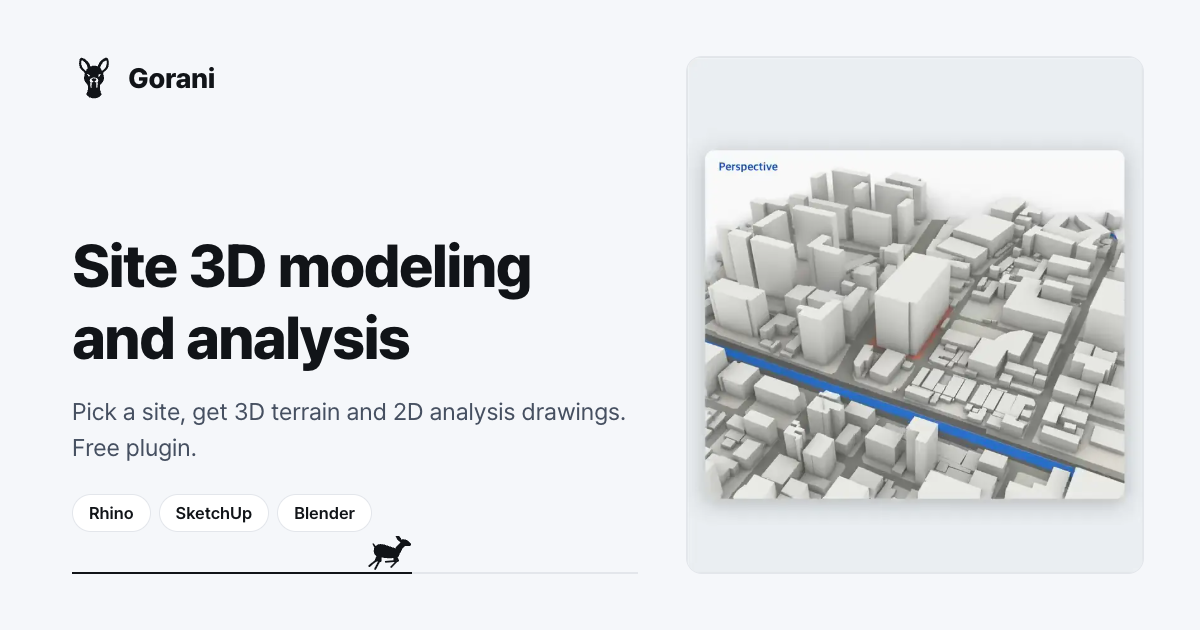
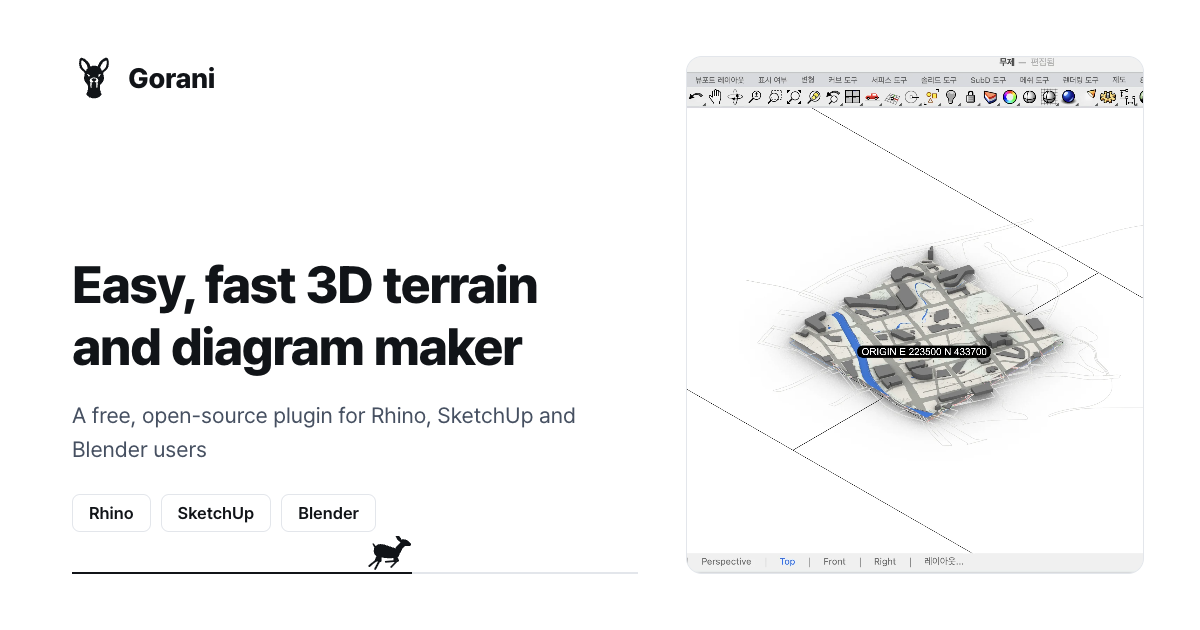
남은 정리: 3D·2D 이미지 호버 통일, 제목·공유 미리보기 새 문구, 칩 클릭 처리 1번만
- .shot 호버: 뜨고 기울던 것을 사용법 카드·지원 칩과 같게(제자리, 테두리·그림자, 0.18초/0.6초)
- <title>, og:title, og:description을 새 Hero 문구로(다섯 언어)
- 공유 이미지 og.html을 다섯 언어(?en ?ja ?zh ?es)로, 3D 모델 화면으로 다시 찍음. ja/zh/es는 각자 og-ja/zh/es.png
- site.js: 지원 칩 클릭 처리가 설치 탭 수만큼(3번) 등록되던 것을 한 번으로

diff --git a/og.html b/og.html
@@ -1,45 +1,52 @@
 <!doctype html>
-<!-- 공유 미리보기 이미지(1200×630) — 문구·영상 첫 장면을 바꾸면 다시 찍는다. 영어판은 ?en
+<!-- 공유 미리보기 이미지(1200×630) — 문구나 3D 장면을 바꾸면 다시 찍는다. 언어는 ?en ?ja ?zh ?es (없으면 한국어)
      C="/Applications/Google Chrome.app/Contents/MacOS/Google Chrome"
      "$C" --headless=new --force-prefers-reduced-motion --hide-scrollbars --window-size=1200,630 --screenshot=assets/og.png "file://$PWD/og.html"
-     "$C" --headless=new --force-prefers-reduced-motion --hide-scrollbars --window-size=1200,630 --screenshot=assets/og-en.png "file://$PWD/og.html?en" -->
+     for l in en ja zh es; do "$C" --headless=new --force-prefers-reduced-motion --hide-scrollbars --window-size=1200,630 --screenshot=assets/og-$l.png "file://$PWD/og.html?$l"; done -->
 <html lang="ko"><head><meta charset="utf-8"><meta name="robots" content="noindex">
 <link rel="stylesheet" href="https://cdn.jsdelivr.net/gh/orioncactus/pretendard@v1.3.9/dist/web/variable/pretendardvariable-dynamic-subset.min.css">
 <link rel="stylesheet" href="assets/style.css">
 <style>
   /* 맥이 다크 모드여도 밝은 색으로 찍는다 — style.css :root 밝은 값 */
-  :root { --paper: #F5F7FA; --surface: #FFFFFF; --press: #EDF0F4; --ink: #111418; --ink-2: #465061; --ink-3: #7D8798; --hair: #E3E6EB; color-scheme: light; }
+  :root { --paper: #FFFFFF; --surface: #FFFFFF; --press: #EDF0F4; --ink: #111418; --ink-2: #465061; --ink-3: #7D8798; --hair: #E3E6EB; color-scheme: light; }
   html, body { width: 1200px; height: 630px; overflow: hidden; margin: 0; background: var(--paper); }
   .og { display: flex; gap: 48px; height: 100%; padding: 56px 56px 56px 72px; box-sizing: border-box; }
   .text { flex: 1; display: flex; flex-direction: column; min-width: 0; }
   .brand { font-size: 28px; gap: 12px; }
   .brand .mark { --s: 44px; }
-  h1 { margin: auto 0 0; font-size: 60px; line-height: 72px; font-weight: 800; letter-spacing: -.03em; }
-  .lead { margin-top: 20px; font-size: 24px; line-height: 36px; }
+  h1 { margin: auto 0 0; font-size: 52px; line-height: 62px; font-weight: 800; letter-spacing: -.03em; }
+  .lead { margin-top: 20px; font-size: 22px; line-height: 34px; }
   .hosts { margin-top: 28px; }
   .hosts li { font-size: 17px; line-height: 24px; padding: 6px 16px; }
   .line { position: relative; margin-top: auto; height: 2px; background: var(--hair); }
   .line i { position: absolute; inset: 0 40% 0 0; background: var(--ink); }
   .line .run { --w: 48px; --h: 36px; position: absolute; bottom: 2px; left: calc(60% - 48px); color: var(--ink); }
   .shot { flex: none; width: 458px; height: 518px; border-radius: 16px; overflow: hidden; background: #EBF0F3; border: 1px solid var(--hair); }
-  .shot img { width: 100%; height: 100%; object-fit: cover; }
+  .shot img { width: 100%; height: 100%; object-fit: cover; object-position: 30% 50%; }
 </style></head>
 <body>
 <div class="og">
   <div class="text">
     <div class="brand"><span class="mark"></span>Gorani</div>
-    <h1 id="title">사이트 3D 모델링<br>및 분석</h1>
-    <p class="lead" id="lead">대상지를 고르면 3D 지형과 2D 분석 자료를 생성하는 무료 플러그인</p>
+    <h1 id="title">쉽고 빠른<br>3D 지형 생성과<br>다이어그램 제작 툴</h1>
+    <p class="lead" id="lead">라이노, 스케치업, 블렌더 유저를 위한 무료 오픈소스 플러그인</p>
     <ul class="hosts"><li><b>Rhino</b></li><li><b>SketchUp</b></li><li><b>Blender</b></li></ul>
     <div class="line" style="margin-top:40px"><i></i><span class="run"></span></div>
   </div>
-  <div class="shot"><img src="assets/demo-poster.webp" alt=""></div>
+  <div class="shot"><img src="assets/detail-3d.webp" alt=""></div>
 </div>
 <script>
-  if (location.search === "?en") {
-    document.documentElement.lang = "en";
-    document.getElementById("title").innerHTML = "Site 3D modeling<br>and analysis";
-    document.getElementById("lead").textContent = "Pick a site, get 3D terrain and 2D analysis drawings. Free plugin.";
+  var T = {
+    en: ["Easy, fast 3D terrain<br>and diagram maker", "A free, open-source plugin for Rhino, SketchUp and Blender users"],
+    ja: ["3D地形と<br>ダイアグラムを、<br>すばやく作成", "Rhino・SketchUp・Blenderユーザーのための無料オープンソースプラグイン"],
+    zh: ["简单快速的<br>3D地形生成与<br>图表制作工具", "面向 Rhino、SketchUp 和 Blender 用户的免费开源插件"],
+    es: ["Terreno 3D<br>y diagramas,<br>fácil y rápido", "Plugin gratuito y de código abierto para usuarios de Rhino, SketchUp y Blender"]
+  };
+  var l = location.search.slice(1);
+  if (T[l]) {
+    document.documentElement.lang = l;
+    document.getElementById("title").innerHTML = T[l][0];
+    document.getElementById("lead").textContent = T[l][1];
   }
 </script>
 </body></html>

diff --git a/ja/index.html b/ja/index.html
@@ -3,7 +3,7 @@
 <head>
 <meta charset="utf-8">
 <meta name="viewport" content="width=device-width, initial-scale=1">
-<title>Gorani: 対象地の3D地形とサイト分析（Rhino、SketchUp、Blender向け無料プラグイン）</title>
+<title>Gorani: 3D地形とダイアグラムを、すばやく作成（Rhino、SketchUp、Blender向け無料プラグイン）</title>
 <meta name="description" content="対象地を選ぶと、周辺の建物・道路・地形を3Dで作成し、ベースマップと分析図をIllustratorファイルとして保存します。Rhino 8、SketchUp、Blenderで使える無料プラグインです。">
 <link rel="canonical" href="https://969flash.github.io/gorani/ja/">
 <link rel="alternate" hreflang="ko" href="https://969flash.github.io/gorani/">
@@ -15,10 +15,10 @@
 <meta property="og:type" content="website">
 <meta property="og:site_name" content="Gorani">
 <meta property="og:locale" content="ja_JP">
-<meta property="og:title" content="Gorani: 対象地の3D地形とサイト分析">
-<meta property="og:description" content="対象地を選ぶと、3D地形と2D分析資料を作成します。Rhino、SketchUp、Blenderで使える無料プラグインです。">
+<meta property="og:title" content="Gorani: 3D地形とダイアグラムを、すばやく作成">
+<meta property="og:description" content="Goraniは、Rhino・SketchUp・Blenderユーザーのための無料オープンソースプラグインです。対象地の3D地形と、編集できる22種類のダイアグラムを作成します。">
 <meta property="og:url" content="https://969flash.github.io/gorani/ja/">
-<meta property="og:image" content="https://969flash.github.io/gorani/assets/og-en.png">
+<meta property="og:image" content="https://969flash.github.io/gorani/assets/og-ja.png">
 <meta property="og:image:width" content="1200">
 <meta property="og:image:height" content="630">
 <meta name="twitter:card" content="summary_large_image">
@@ -46,7 +46,7 @@
       "offers": { "@type": "Offer", "price": "0", "priceCurrency": "USD" },
       "inLanguage": "ja",
       "url": "https://969flash.github.io/gorani/ja/",
-      "image": "https://969flash.github.io/gorani/assets/og-en.png",
+      "image": "https://969flash.github.io/gorani/assets/og-ja.png",
       "author": { "@type": "Person", "name": "969flash", "url": "https://github.com/969flash" },
       "featureList": [
         "周辺の建物（階数から高さ）、道路、地形、水系、緑地、鉄道の3Dモデル",

diff --git a/es/index.html b/es/index.html
@@ -3,7 +3,7 @@
 <head>
 <meta charset="utf-8">
 <meta name="viewport" content="width=device-width, initial-scale=1">
-<title>Gorani: terreno 3D y análisis del sitio (plugin gratuito para Rhino, SketchUp y Blender)</title>
+<title>Gorani: Terreno 3D y diagramas, fácil y rápido (plugin gratuito para Rhino, SketchUp y Blender)</title>
 <meta name="description" content="Elige un sitio y Gorani crea en 3D los edificios, calles y terreno del entorno, y guarda un plano base y mapas de análisis como archivos de Illustrator. Plugin gratuito para Rhino 8, SketchUp y Blender.">
 <link rel="canonical" href="https://969flash.github.io/gorani/es/">
 <link rel="alternate" hreflang="ko" href="https://969flash.github.io/gorani/">
@@ -15,10 +15,10 @@
 <meta property="og:type" content="website">
 <meta property="og:site_name" content="Gorani">
 <meta property="og:locale" content="es_ES">
-<meta property="og:title" content="Gorani: terreno 3D y análisis del sitio">
-<meta property="og:description" content="Elige un sitio y obtén terreno 3D y planos de análisis 2D. Plugin gratuito para Rhino, SketchUp y Blender.">
+<meta property="og:title" content="Gorani: Terreno 3D y diagramas, fácil y rápido">
+<meta property="og:description" content="Gorani es un plugin gratuito y de código abierto para usuarios de Rhino, SketchUp y Blender. Crea el terreno 3D del sitio y 22 diagramas editables.">
 <meta property="og:url" content="https://969flash.github.io/gorani/es/">
-<meta property="og:image" content="https://969flash.github.io/gorani/assets/og-en.png">
+<meta property="og:image" content="https://969flash.github.io/gorani/assets/og-es.png">
 <meta property="og:image:width" content="1200">
 <meta property="og:image:height" content="630">
 <meta name="twitter:card" content="summary_large_image">
@@ -46,7 +46,7 @@
       "offers": { "@type": "Offer", "price": "0", "priceCurrency": "USD" },
       "inLanguage": "es",
       "url": "https://969flash.github.io/gorani/es/",
-      "image": "https://969flash.github.io/gorani/assets/og-en.png",
+      "image": "https://969flash.github.io/gorani/assets/og-es.png",
       "author": { "@type": "Person", "name": "969flash", "url": "https://github.com/969flash" },
       "featureList": [
         "Modelo 3D de edificios del entorno (altura según número de plantas), calles, terreno, agua, zonas verdes y ferrocarril",

diff --git a/zh/index.html b/zh/index.html
@@ -3,7 +3,7 @@
 <head>
 <meta charset="utf-8">
 <meta name="viewport" content="width=device-width, initial-scale=1">
-<title>Gorani：场地3D地形与场地分析（Rhino、SketchUp、Blender 免费插件）</title>
+<title>Gorani: 简单快速的3D地形生成与图表制作工具（Rhino、SketchUp、Blender 免费插件）</title>
 <meta name="description" content="选择场地后，Gorani 会生成周边建筑、道路和地形的3D模型，并将底图和分析图保存为 Illustrator 文件。适用于 Rhino 8、SketchUp 和 Blender 的免费插件。">
 <link rel="canonical" href="https://969flash.github.io/gorani/zh/">
 <link rel="alternate" hreflang="ko" href="https://969flash.github.io/gorani/">
@@ -15,10 +15,10 @@
 <meta property="og:type" content="website">
 <meta property="og:site_name" content="Gorani">
 <meta property="og:locale" content="zh_CN">
-<meta property="og:title" content="Gorani：场地3D地形与场地分析">
-<meta property="og:description" content="选择场地，即可生成3D地形和2D分析图纸。适用于 Rhino、SketchUp 和 Blender 的免费插件。">
+<meta property="og:title" content="Gorani: 简单快速的3D地形生成与图表制作工具">
+<meta property="og:description" content="Gorani 是面向 Rhino、SketchUp 和 Blender 用户的免费开源插件，可生成场地3D地形和22种可编辑图表。">
 <meta property="og:url" content="https://969flash.github.io/gorani/zh/">
-<meta property="og:image" content="https://969flash.github.io/gorani/assets/og-en.png">
+<meta property="og:image" content="https://969flash.github.io/gorani/assets/og-zh.png">
 <meta property="og:image:width" content="1200">
 <meta property="og:image:height" content="630">
 <meta name="twitter:card" content="summary_large_image">
@@ -46,7 +46,7 @@
       "offers": { "@type": "Offer", "price": "0", "priceCurrency": "USD" },
       "inLanguage": "zh",
       "url": "https://969flash.github.io/gorani/zh/",
-      "image": "https://969flash.github.io/gorani/assets/og-en.png",
+      "image": "https://969flash.github.io/gorani/assets/og-zh.png",
       "author": { "@type": "Person", "name": "969flash", "url": "https://github.com/969flash" },
       "featureList": [
         "周边建筑（按层数确定高度）、道路、地形、水系、绿地和铁路的3D模型",

diff --git a/index.html b/index.html
@@ -3,7 +3,7 @@
 <head>
 <meta charset="utf-8">
 <meta name="viewport" content="width=device-width, initial-scale=1">
-<title>Gorani: 사이트 3D 모델링 및 분석 (Rhino, SketchUp, Blender 무료 플러그인)</title>
+<title>Gorani: 쉽고 빠른 3D 지형 생성과 다이어그램 제작 툴 (Rhino, SketchUp, Blender 무료 플러그인)</title>
 <meta name="description" content="대상지를 고르면 주변 건물, 도로, 지형을 3D로 만들고 베이스맵과 현황도, 분석도를 일러스트레이터 파일로 저장하는 무료 플러그인입니다. Rhino 8, SketchUp, Blender에서 작동합니다.">
 <link rel="canonical" href="https://969flash.github.io/gorani/">
 <link rel="alternate" hreflang="ko" href="https://969flash.github.io/gorani/">
@@ -15,8 +15,8 @@
 <meta property="og:type" content="website">
 <meta property="og:site_name" content="Gorani">
 <meta property="og:locale" content="ko_KR">
-<meta property="og:title" content="Gorani: 사이트 3D 모델링 및 분석">
-<meta property="og:description" content="대상지를 고르면 3D 지형과 2D 분석 자료를 생성합니다. 라이노, 스케치업, 블렌더에서 작동하는 무료 플러그인입니다.">
+<meta property="og:title" content="Gorani: 쉽고 빠른 3D 지형 생성과 다이어그램 제작 툴">
+<meta property="og:description" content="Gorani는 라이노, 스케치업, 블렌더 유저를 위한 무료 오픈소스 플러그인입니다. 대상지의 3D 지형과 편집 가능한 22가지 다이어그램을 만듭니다.">
 <meta property="og:url" content="https://969flash.github.io/gorani/">
 <meta property="og:image" content="https://969flash.github.io/gorani/assets/og.png">
 <meta property="og:image:width" content="1200">

diff --git a/en/index.html b/en/index.html
@@ -3,7 +3,7 @@
 <head>
 <meta charset="utf-8">
 <meta name="viewport" content="width=device-width, initial-scale=1">
-<title>Gorani: site 3D modeling and analysis (free plugin for Rhino, SketchUp, Blender)</title>
+<title>Gorani: Easy, fast 3D terrain and diagram maker (free plugin for Rhino, SketchUp, Blender)</title>
 <meta name="description" content="Pick a site and Gorani builds the surrounding buildings, roads and terrain in 3D, and saves a basemap and analysis maps as Illustrator files. A free plugin for Rhino 8, SketchUp and Blender.">
 <link rel="canonical" href="https://969flash.github.io/gorani/en/">
 <link rel="alternate" hreflang="ko" href="https://969flash.github.io/gorani/">
@@ -15,8 +15,8 @@
 <meta property="og:type" content="website">
 <meta property="og:site_name" content="Gorani">
 <meta property="og:locale" content="en_US">
-<meta property="og:title" content="Gorani: site 3D modeling and analysis">
-<meta property="og:description" content="Pick a site and get 3D terrain and 2D analysis drawings. A free plugin for Rhino, SketchUp and Blender.">
+<meta property="og:title" content="Gorani: Easy, fast 3D terrain and diagram maker">
+<meta property="og:description" content="Gorani is a free, open-source plugin for Rhino, SketchUp, and Blender users. It builds 3D terrain for your site and 22 editable diagrams.">
 <meta property="og:url" content="https://969flash.github.io/gorani/en/">
 <meta property="og:image" content="https://969flash.github.io/gorani/assets/og-en.png">
 <meta property="og:image:width" content="1200">

diff --git a/assets/style.css b/assets/style.css
@@ -262,8 +262,8 @@ html[lang="ja"] .hero h1 { font-size: 42px; line-height: 52px; }   /* 전각 글
 .feature { display: grid; grid-template-columns: minmax(0, 7fr) minmax(0, 5fr); gap: 56px; align-items: center; }
 .feature.flip { grid-template-columns: minmax(0, 5fr) minmax(0, 7fr); }
 .feature.flip > .shot { order: 2; }
-.shot { border-radius: 16px; overflow: hidden; background: var(--press); border: 1px solid var(--hair); transition: transform .5s cubic-bezier(.2,.8,.2,1), box-shadow .5s ease; }
-.shot:hover { transform: translateY(-8px) rotate(-.4deg); box-shadow: 0 24px 60px -34px rgba(17, 20, 24, .45); }
+.shot { border-radius: 16px; overflow: hidden; background: var(--press); border: 1px solid var(--hair); transition: border-color .6s cubic-bezier(.33,0,.45,1), box-shadow .6s cubic-bezier(.33,0,.45,1); }
+.shot:hover { border-color: #C9CED6; box-shadow: 0 12px 32px -24px rgba(17, 20, 24, .35); transition-duration: .18s; }   /* 사용법 카드·지원 칩과 같은 결 */
 .shot img { width: 100%; aspect-ratio: 4 / 3; object-fit: cover; }
 .media-stack { display: grid; gap: 12px; padding: 12px; }
 .media-stack video, .media-stack img { width: 100%; height: auto; aspect-ratio: auto; object-fit: contain; border-radius: 10px; background: var(--surface); }

diff --git a/assets/site.js b/assets/site.js
@@ -78,11 +78,12 @@
       var d = e.key === "ArrowRight" ? 1 : e.key === "ArrowLeft" ? -1 : 0;
       if (d) { e.preventDefault(); pick(tabs[(i + d + tabs.length) % tabs.length], true); }
     });
-    document.querySelectorAll("[data-install-tab]").forEach(function (link) {
-      link.addEventListener("click", function () {
-        var tab = document.getElementById("tab-" + link.getAttribute("data-install-tab"));
-        if (tab) pick(tab);
-      });
+  });
+  // 지원 프로그램 칩: 설치의 그 프로그램 탭을 연다
+  document.querySelectorAll("[data-install-tab]").forEach(function (link) {
+    link.addEventListener("click", function () {
+      var tab = document.getElementById("tab-" + link.getAttribute("data-install-tab"));
+      if (tab) pick(tab);
     });
   });
 
